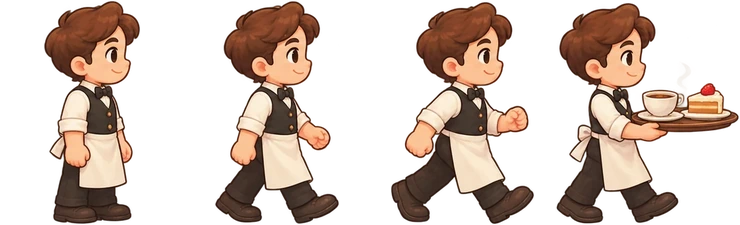
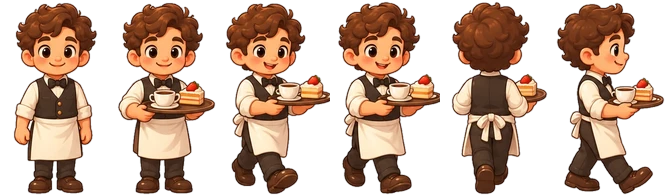
New chef and waiter sheets with front/back/side views
Claude-Session: https://claude.ai/code/session_012nmUwDLyP2qaqLbjtxBWJU

diff --git a/bakery-street-app/src/characters/sprites.js b/bakery-street-app/src/characters/sprites.js
@@ -12,8 +12,9 @@ export const SHEETS = {
   girl_glasses: { frames: 1, w: 97, h: 159 },
   girl_red: { frames: 1, w: 114, h: 147 },
   grandma: { frames: 6, w: 111, h: 164, views: true },
-  chef: { frames: 1, w: 124, h: 163 },                          // the chef holding fresh bread; his walk is made by bouncing the picture
-  waiter: { frames: 4, w: 133, h: 162, cycle: [1, 0, 2, 0] },   // 0 stand, 1 and 2 walk, 3 carrying a tray; walking plays `cycle`
+  // staff: true = chef and waiter sheet: 0 stand, 1 stand carrying, 2-3 walk carrying (front), 4 back, 5 side (carrying)
+  chef: { frames: 6, w: 92, h: 164, staff: true },
+  waiter: { frames: 6, w: 92, h: 163, staff: true },
 };
 
 const SCALE = 0.9; // native sprite px -> design px (a street character ends up ~150 px tall; the cafe scales people up further, see PERSON_SCALE)
@@ -21,13 +22,19 @@ const SCALE = 0.9; // native sprite px -> design px (a street character ends up 
 export const hasSprite = (id) => !!getImage(`char-${id}`);
 
 /** Draws frame `floor(t*fps+phase)` of the sheet with the feet at (x, y). Returns false when the sheet is not loaded. */
-export function drawSprite(ctx, id, x, y, t, { dir = 1, fps = 7, phase = 0, scale = 1, frame = null, bob = 0, sway = 0, shade = true, bounce = false, back = false } = {}) {
+export function drawSprite(ctx, id, x, y, t, { dir = 1, fps = 7, phase = 0, scale = 1, frame = null, bob = 0, sway = 0, shade = true, bounce = false, back = false, view = 'side', carry = true } = {}) {
   const img = getImage(`char-${id}`), m = SHEETS[id];
   if (!img || !m) return false;
   const base = m.views && back ? 3 : 0;   // sheets with views: frames 3-5 show the character from behind
   const seq = m.views ? [1, 0, 2, 0].map((i) => base + i) : m.cycle ?? Array.from({ length: m.frames }, (_, i) => i);
-  const f = m.frames === 1 ? 0 : m.views && frame !== null ? base : frame ?? seq[((Math.floor(t * fps + phase) % seq.length) + seq.length) % seq.length];   // `frame` freezes the pose (standing)
-  const walking = (m.frames === 1 && frame === null) || bounce;   // views sheets have real steps, so only `bounce` (waiting in place) moves them          // one-picture characters: the walk is made by moving the picture (bounce, lean, squash)
+  let staffMove = false, f0 = null;
+  if (m.staff) {   // the staff sheet has a front walk (2-3), a back view (4) and a side view (5); an empty-handed waiter uses the plain standing frame
+    const rest = carry ? 1 : 0;
+    staffMove = frame === null;
+    f0 = !staffMove ? (frame === 3 ? 1 : rest) : view === 'back' ? (carry ? 4 : 0) : view === 'side' ? (carry ? 5 : 0) : carry ? [2, 1, 3, 1][((Math.floor(t * fps + phase) % 4) + 4) % 4] : 0;
+  }
+  const f = m.staff ? f0 : m.frames === 1 ? 0 : m.views && frame !== null ? base : frame ?? seq[((Math.floor(t * fps + phase) % seq.length) + seq.length) % seq.length];   // `frame` freezes the pose (standing)
+  const walking = (m.frames === 1 && frame === null) || bounce || (staffMove && view !== 'front');   // views sheets have real steps, so only `bounce` (waiting in place) moves them          // one-picture characters: the walk is made by moving the picture (bounce, lean, squash)
   const s = SCALE * scale, dw = m.w * s, dh = m.h * s;
   if (shade) shadow(ctx, x, y + 1, dw * 0.28, 4.5, 0.32);
   ctx.save();

diff --git a/bakery-street-app/src/scene/interior-staff.js b/bakery-street-app/src/scene/interior-staff.js
@@ -16,7 +16,7 @@ const POST = { x: 655, y: WAITER_LANE_Y };                 // the waiter's post:
 const HAND_SEC = 1.1;                                       // time spent handing the order over
 
 class Walker {
-  constructor(x, y, speed) { this.x = x; this.y = y; this.speed = speed; this.dir = 1; this.moving = false; this.target = null; this.wait = 1.5; this.t = 0; }
+  constructor(x, y, speed) { this.x = x; this.y = y; this.speed = speed; this.dir = 1; this.moving = false; this.target = null; this.wait = 1.5; this.t = 0; this.view = 'side'; }
   /** Moves toward the target point (one axis at a time is up to the route); returns true when it has just arrived. */
   step(dt, blocked = null) {
     this.t += dt;
@@ -24,6 +24,7 @@ class Walker {
     const dx = this.target.x - this.x, dy = this.target.y - this.y, d = Math.hypot(dx, dy);
     if (d < 3) { this.x = this.target.x; this.y = this.target.y; this.target = null; this.moving = false; return true; }
     if (Math.abs(dx) > 1) this.dir = dx > 0 ? 1 : -1;
+    this.view = Math.abs(dy) > Math.abs(dx) * 0.6 ? (dy < 0 ? 'back' : 'front') : 'side';   // which side of the walker the camera sees
     if (blocked?.(this.x, this.y, Math.abs(dx) > 1 ? Math.sign(dx) : 0, Math.sign(dy))) { this.moving = false; return false; }     // someone is in the way: wait
     this.moving = true;
     const s = Math.min(d, this.speed * dt);
@@ -153,7 +154,7 @@ export class StaffLayer {
   /** The baker is drawn between the back-wall furniture and the counters, so the counters hide his lower body. */
   drawBaker(ctx) {
     const b = this.baker, working = !b.moving && !b.target && !!this.busyStop();
-    drawSprite(ctx, 'chef', b.x, STAFF_LANE_Y, b.t, { dir: b.dir, fps: 7, scale: PERSON_SCALE * 1.04 * depthScale(STAFF_LANE_Y), frame: b.moving ? null : 0, bob: working ? 0.03 : 0.014, sway: working ? 0.035 : 0 });
+    drawSprite(ctx, 'chef', b.x, STAFF_LANE_Y, b.t, { dir: b.dir, fps: 7, scale: PERSON_SCALE * 1.04 * depthScale(STAFF_LANE_Y), frame: b.moving ? null : 0, view: b.view, bob: working ? 0.03 : 0.014, sway: working ? 0.035 : 0 });
   }
 
   drawWaiter(ctx) {
@@ -162,7 +163,7 @@ export class StaffLayer {
     ctx.globalAlpha = this.show;
     // carrying an order he holds the tray out (frame 3) and walks by bouncing; otherwise he walks the 4-frame cycle or stands
     const tray = !!this.carry && this.phase !== 'hand';
-    drawSprite(ctx, 'waiter', w.x, w.y, w.t, { dir: w.dir, fps: 7, scale: PERSON_SCALE * depthScale(w.y), frame: tray ? 3 : w.moving ? null : 0, bounce: tray && w.moving, bob: 0.012, sway: this.phase === 'hand' ? 0.03 : 0 });
+    drawSprite(ctx, 'waiter', w.x, w.y, w.t, { dir: w.dir, fps: 7, scale: PERSON_SCALE * depthScale(w.y), frame: w.moving ? null : tray ? 3 : 0, carry: tray, view: w.view, bob: 0.012, sway: this.phase === 'hand' ? 0.03 : 0 });
     // (the tray frame already shows a cup and a cake, so no separate item icon is drawn while carrying)
     ctx.globalAlpha = 1;
   }

diff --git a/bakery-street-app/README.md b/bakery-street-app/README.md
@@ -141,3 +141,6 @@ oven, counter (dough and rolling pin on top), showcase (goods baked into the gla
 
 ### Önden/arkadan yürüyen müşteriler
 `girl_basket`, `boy_cap`, `boy_backpack`, `grandma` 6 karelik şeritler (0-2 önden, 3-5 arkadan; `views: true`). Kameradan uzaklaşırken (yukarı yürürken) arka kareler, diğer durumlarda ön kareler çizilir. Diğer 4 müşteri ve şef/garson hâlâ eski görünümde.
+
+### Şef ve garson (önden/arkadan/yandan)
+`chef.webp` ve `waiter.webp` 6 karelik şerit (`staff: true`): 0 boş duruş, 1 taşıyarak duruş, 2-3 önden yürüyüş, 4 arka, 5 yan. Yürüme yönüne göre (`Walker.view`) kare seçilir; tepsisiz garson boş duruş karesini zıplatarak yürür.
